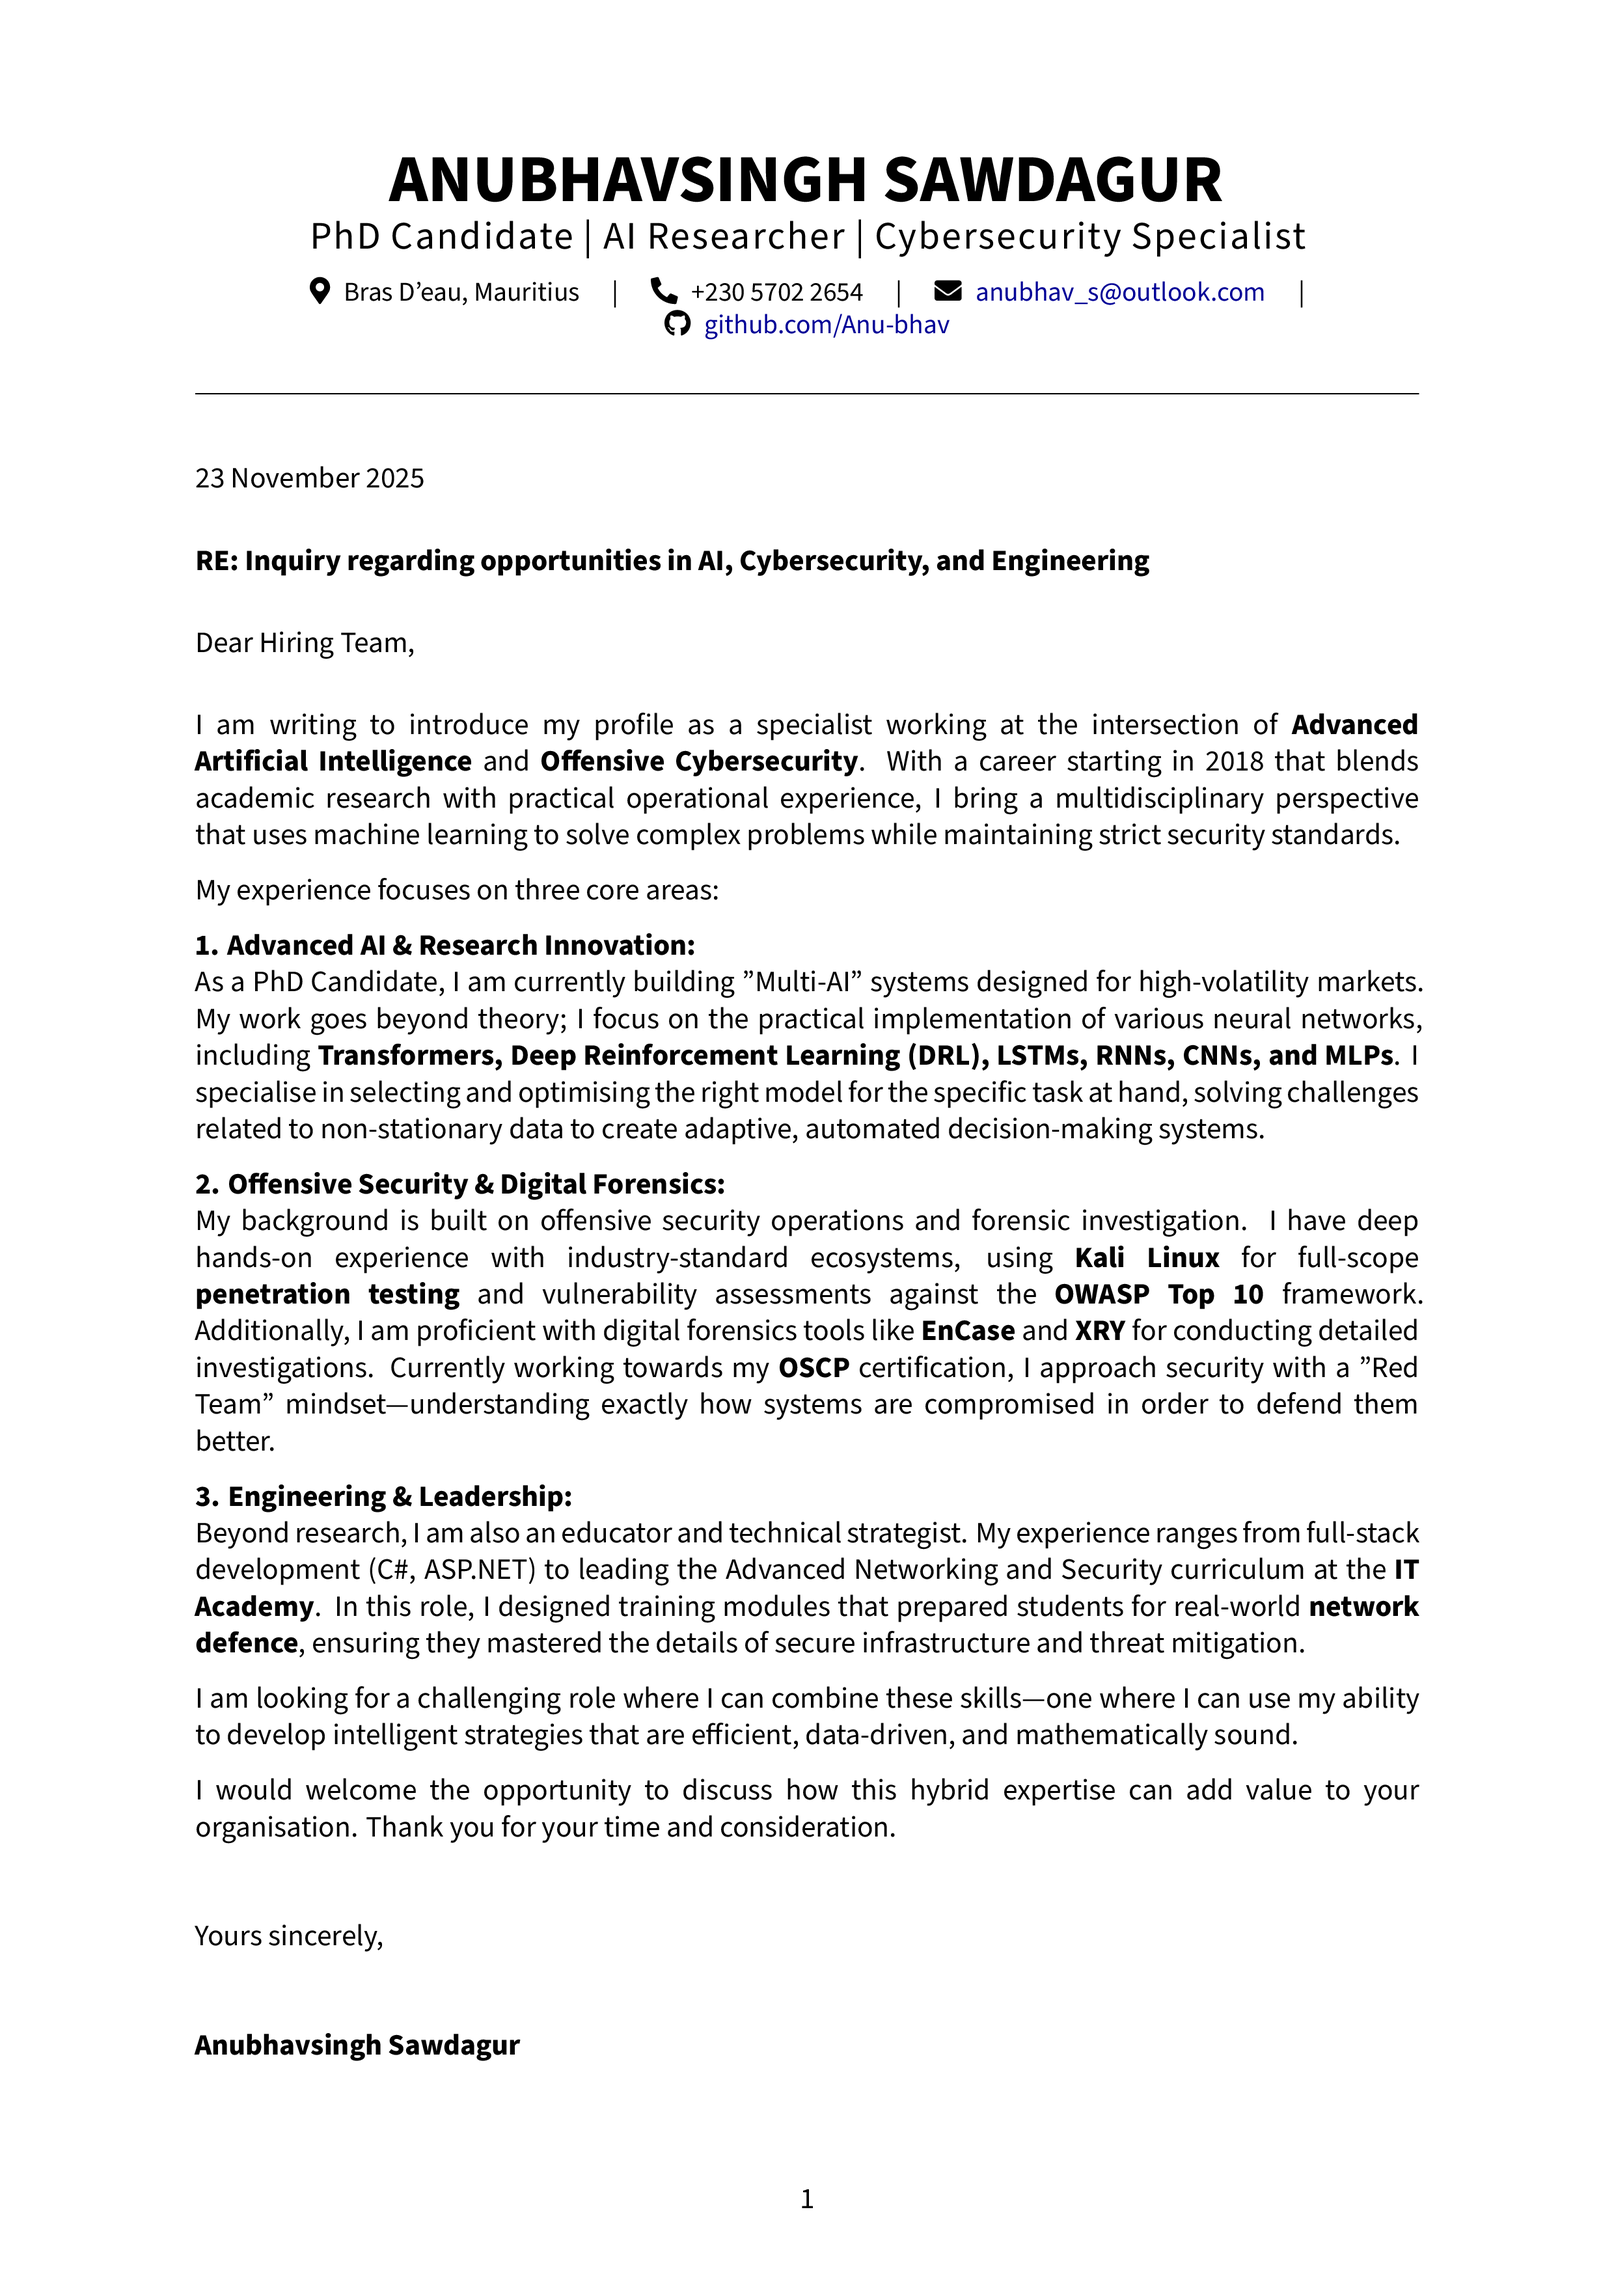
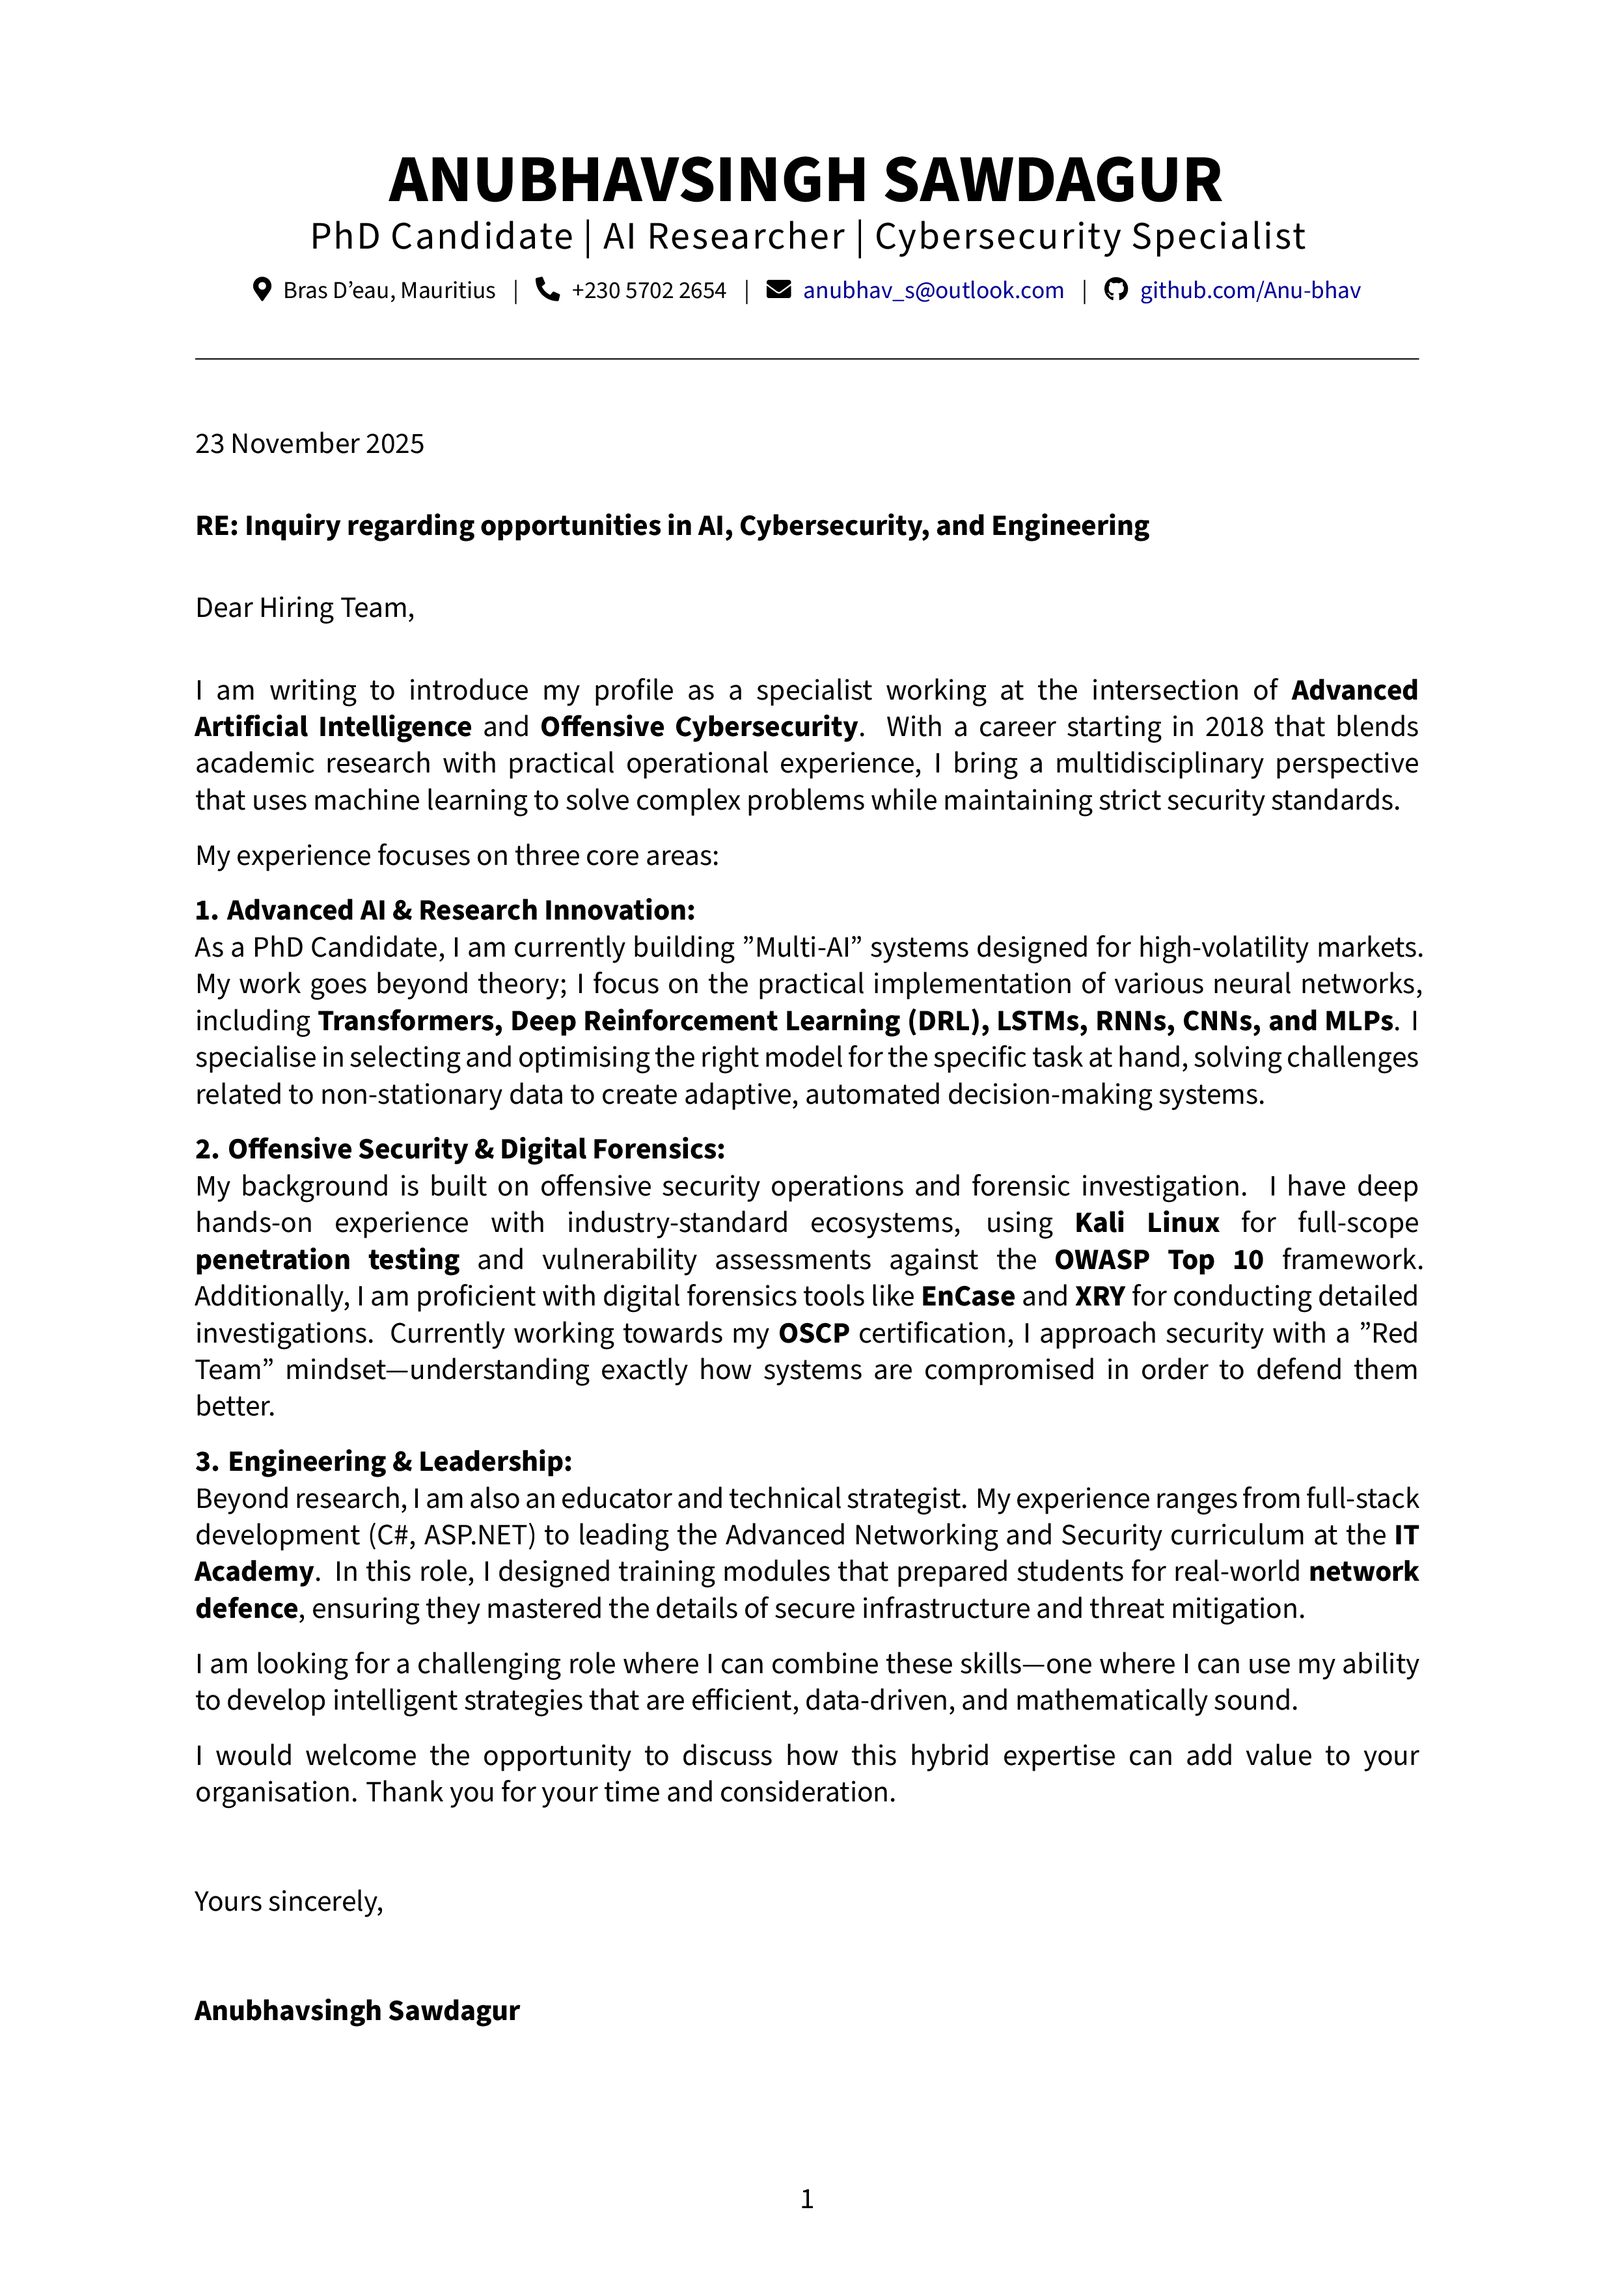
update cover letter

diff --git a/cover_letter.tex b/cover_letter.tex
@@ -39,10 +39,11 @@
     {\Huge \textbf{ANUBHAVSINGH SAWDAGUR}} \\[4pt]
     {\Large \textls[50]{PhD Candidate | AI Researcher | Cybersecurity Specialist}} \\[6pt]
 
-    \small
-    \faMapMarker*\enspace Bras D'eau, Mauritius \quad | \quad
-    \faPhone*\enspace +230 5702 2654 \quad | \quad
-    \faEnvelope\enspace \href{mailto:anubhav_s@outlook.com}{anubhav\_s@outlook.com} \quad | \quad
+    % Changed \small to \footnotesize and \quad to \enspace to fit on one line
+    \footnotesize
+    \faMapMarker*\enspace Bras D'eau, Mauritius \enspace | \enspace
+    \faPhone*\enspace +230 5702 2654 \enspace | \enspace
+    \faEnvelope\enspace \href{mailto:anubhav_s@outlook.com}{anubhav\_s@outlook.com} \enspace | \enspace
     \faGithub\enspace \href{https://github.com/Anu-bhav}{github.com/Anu-bhav}
 \end{center}
 
